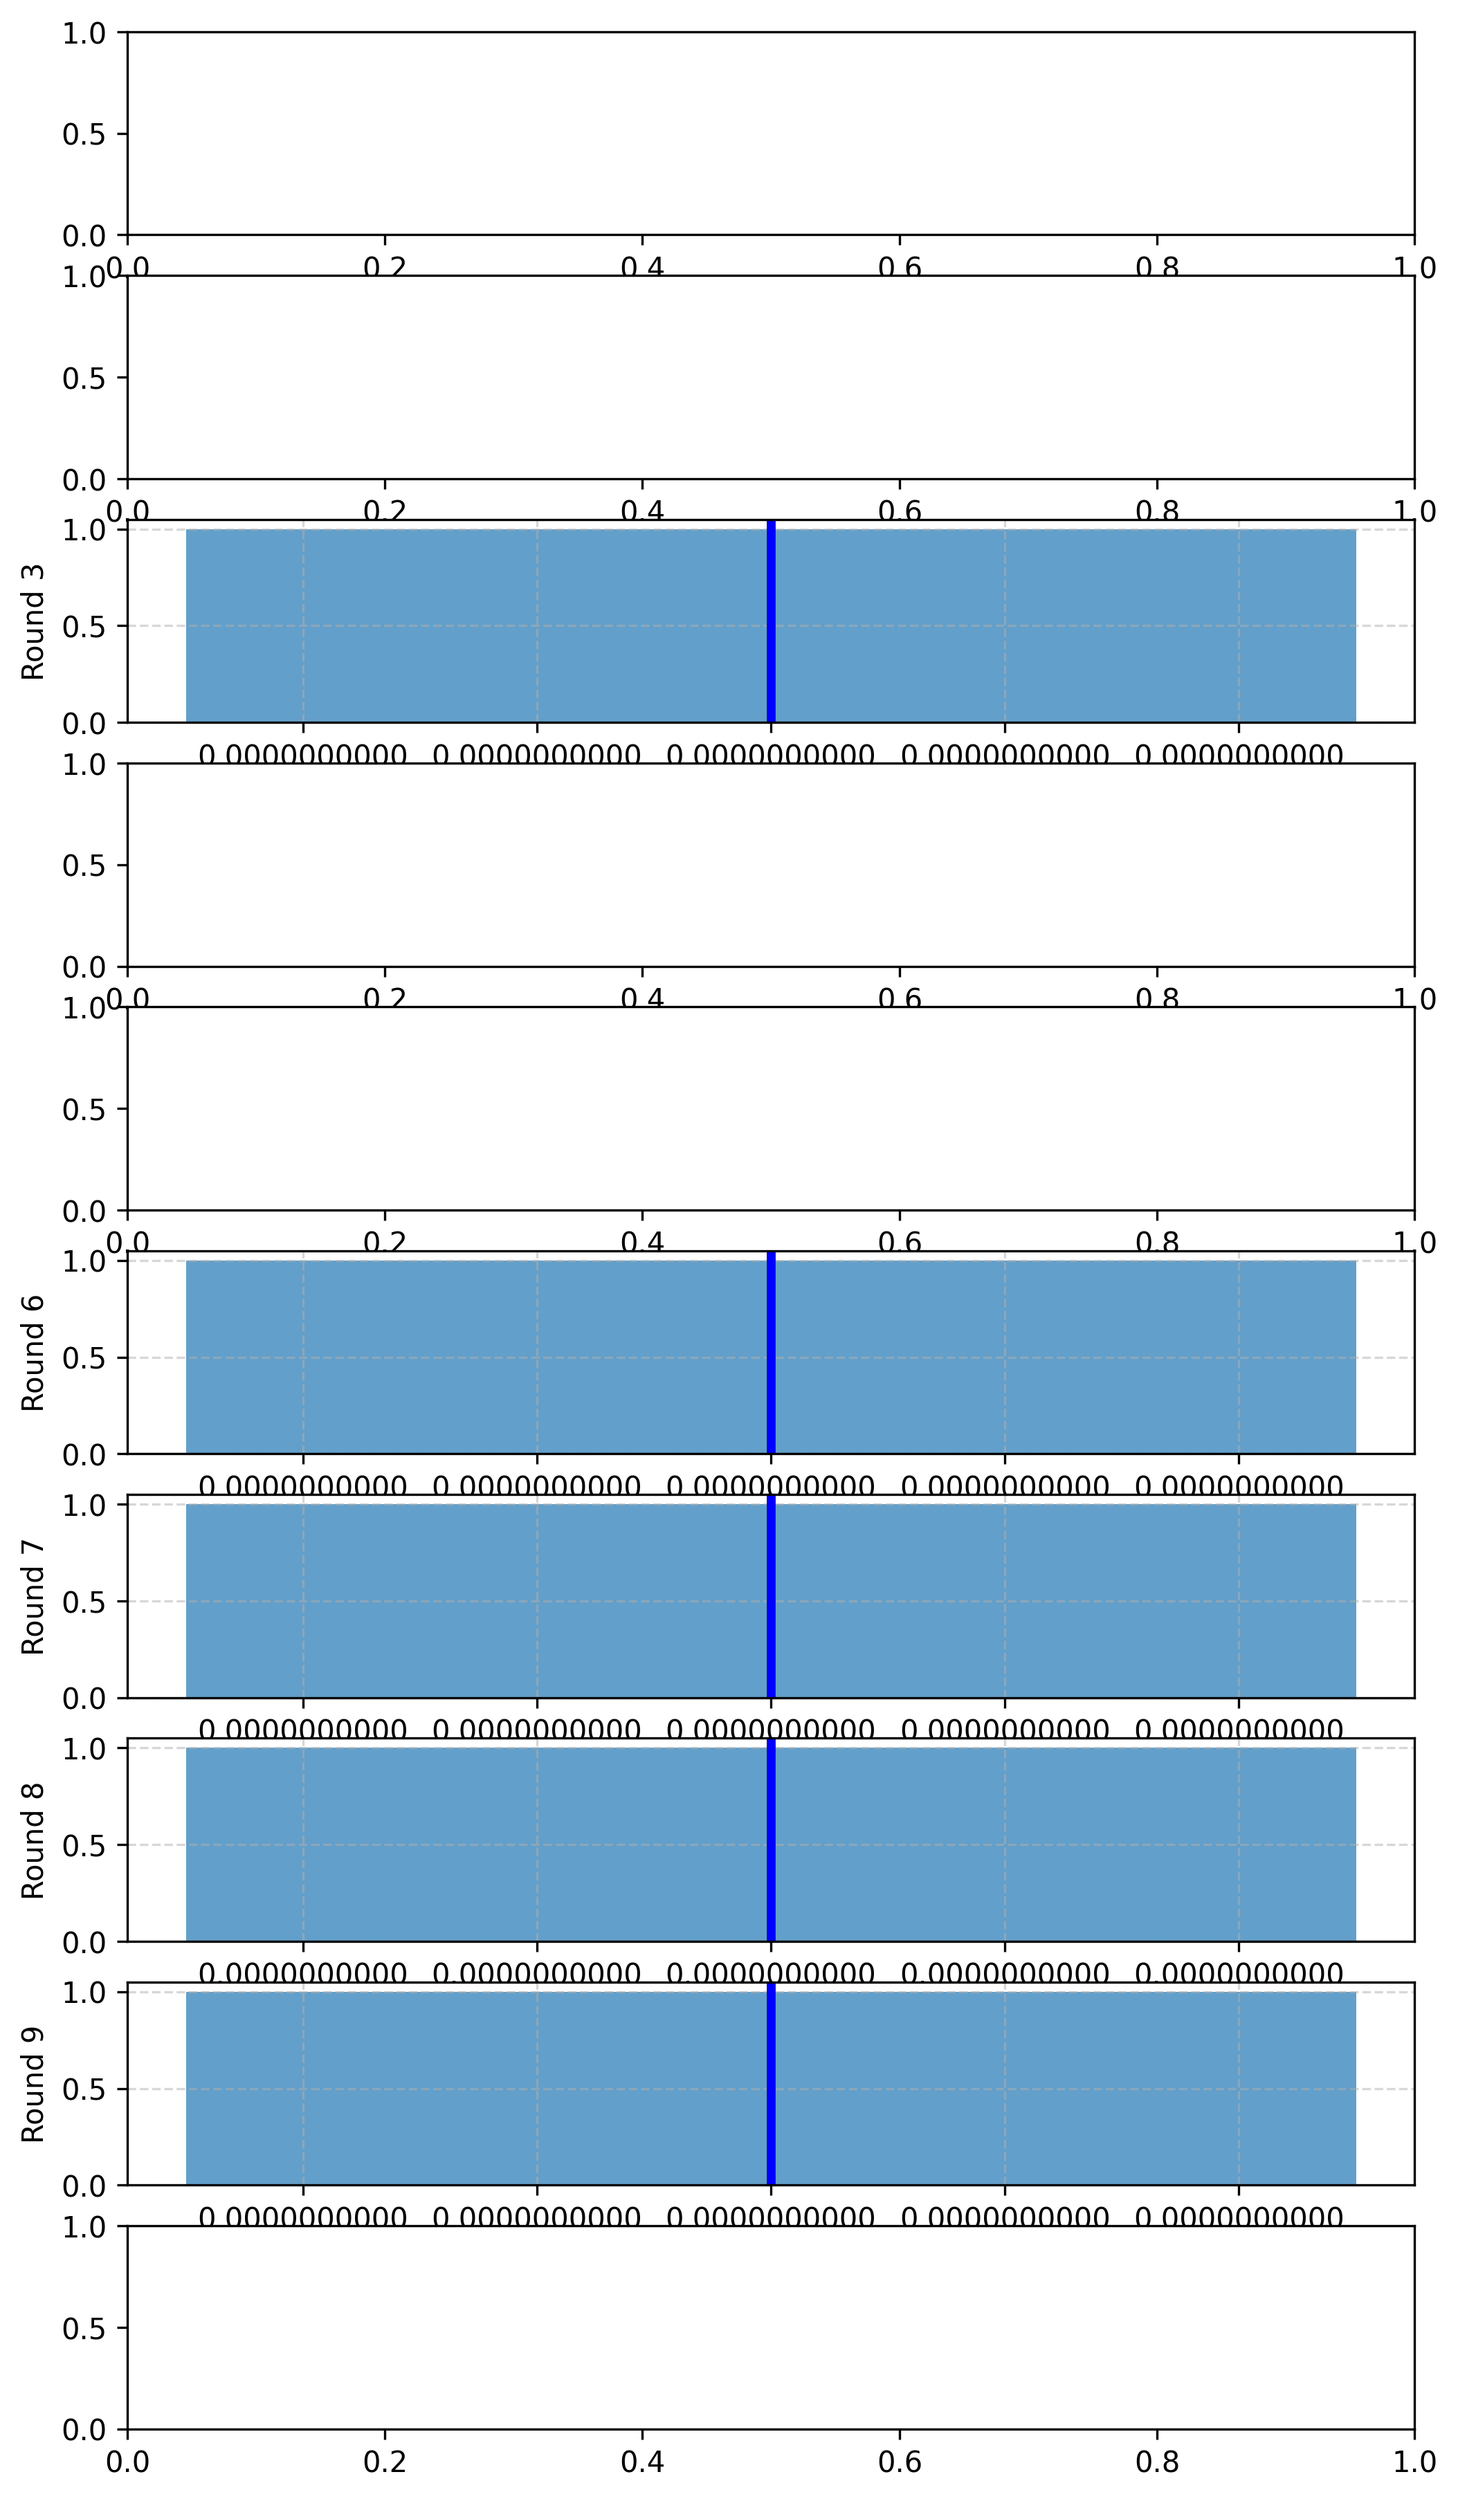
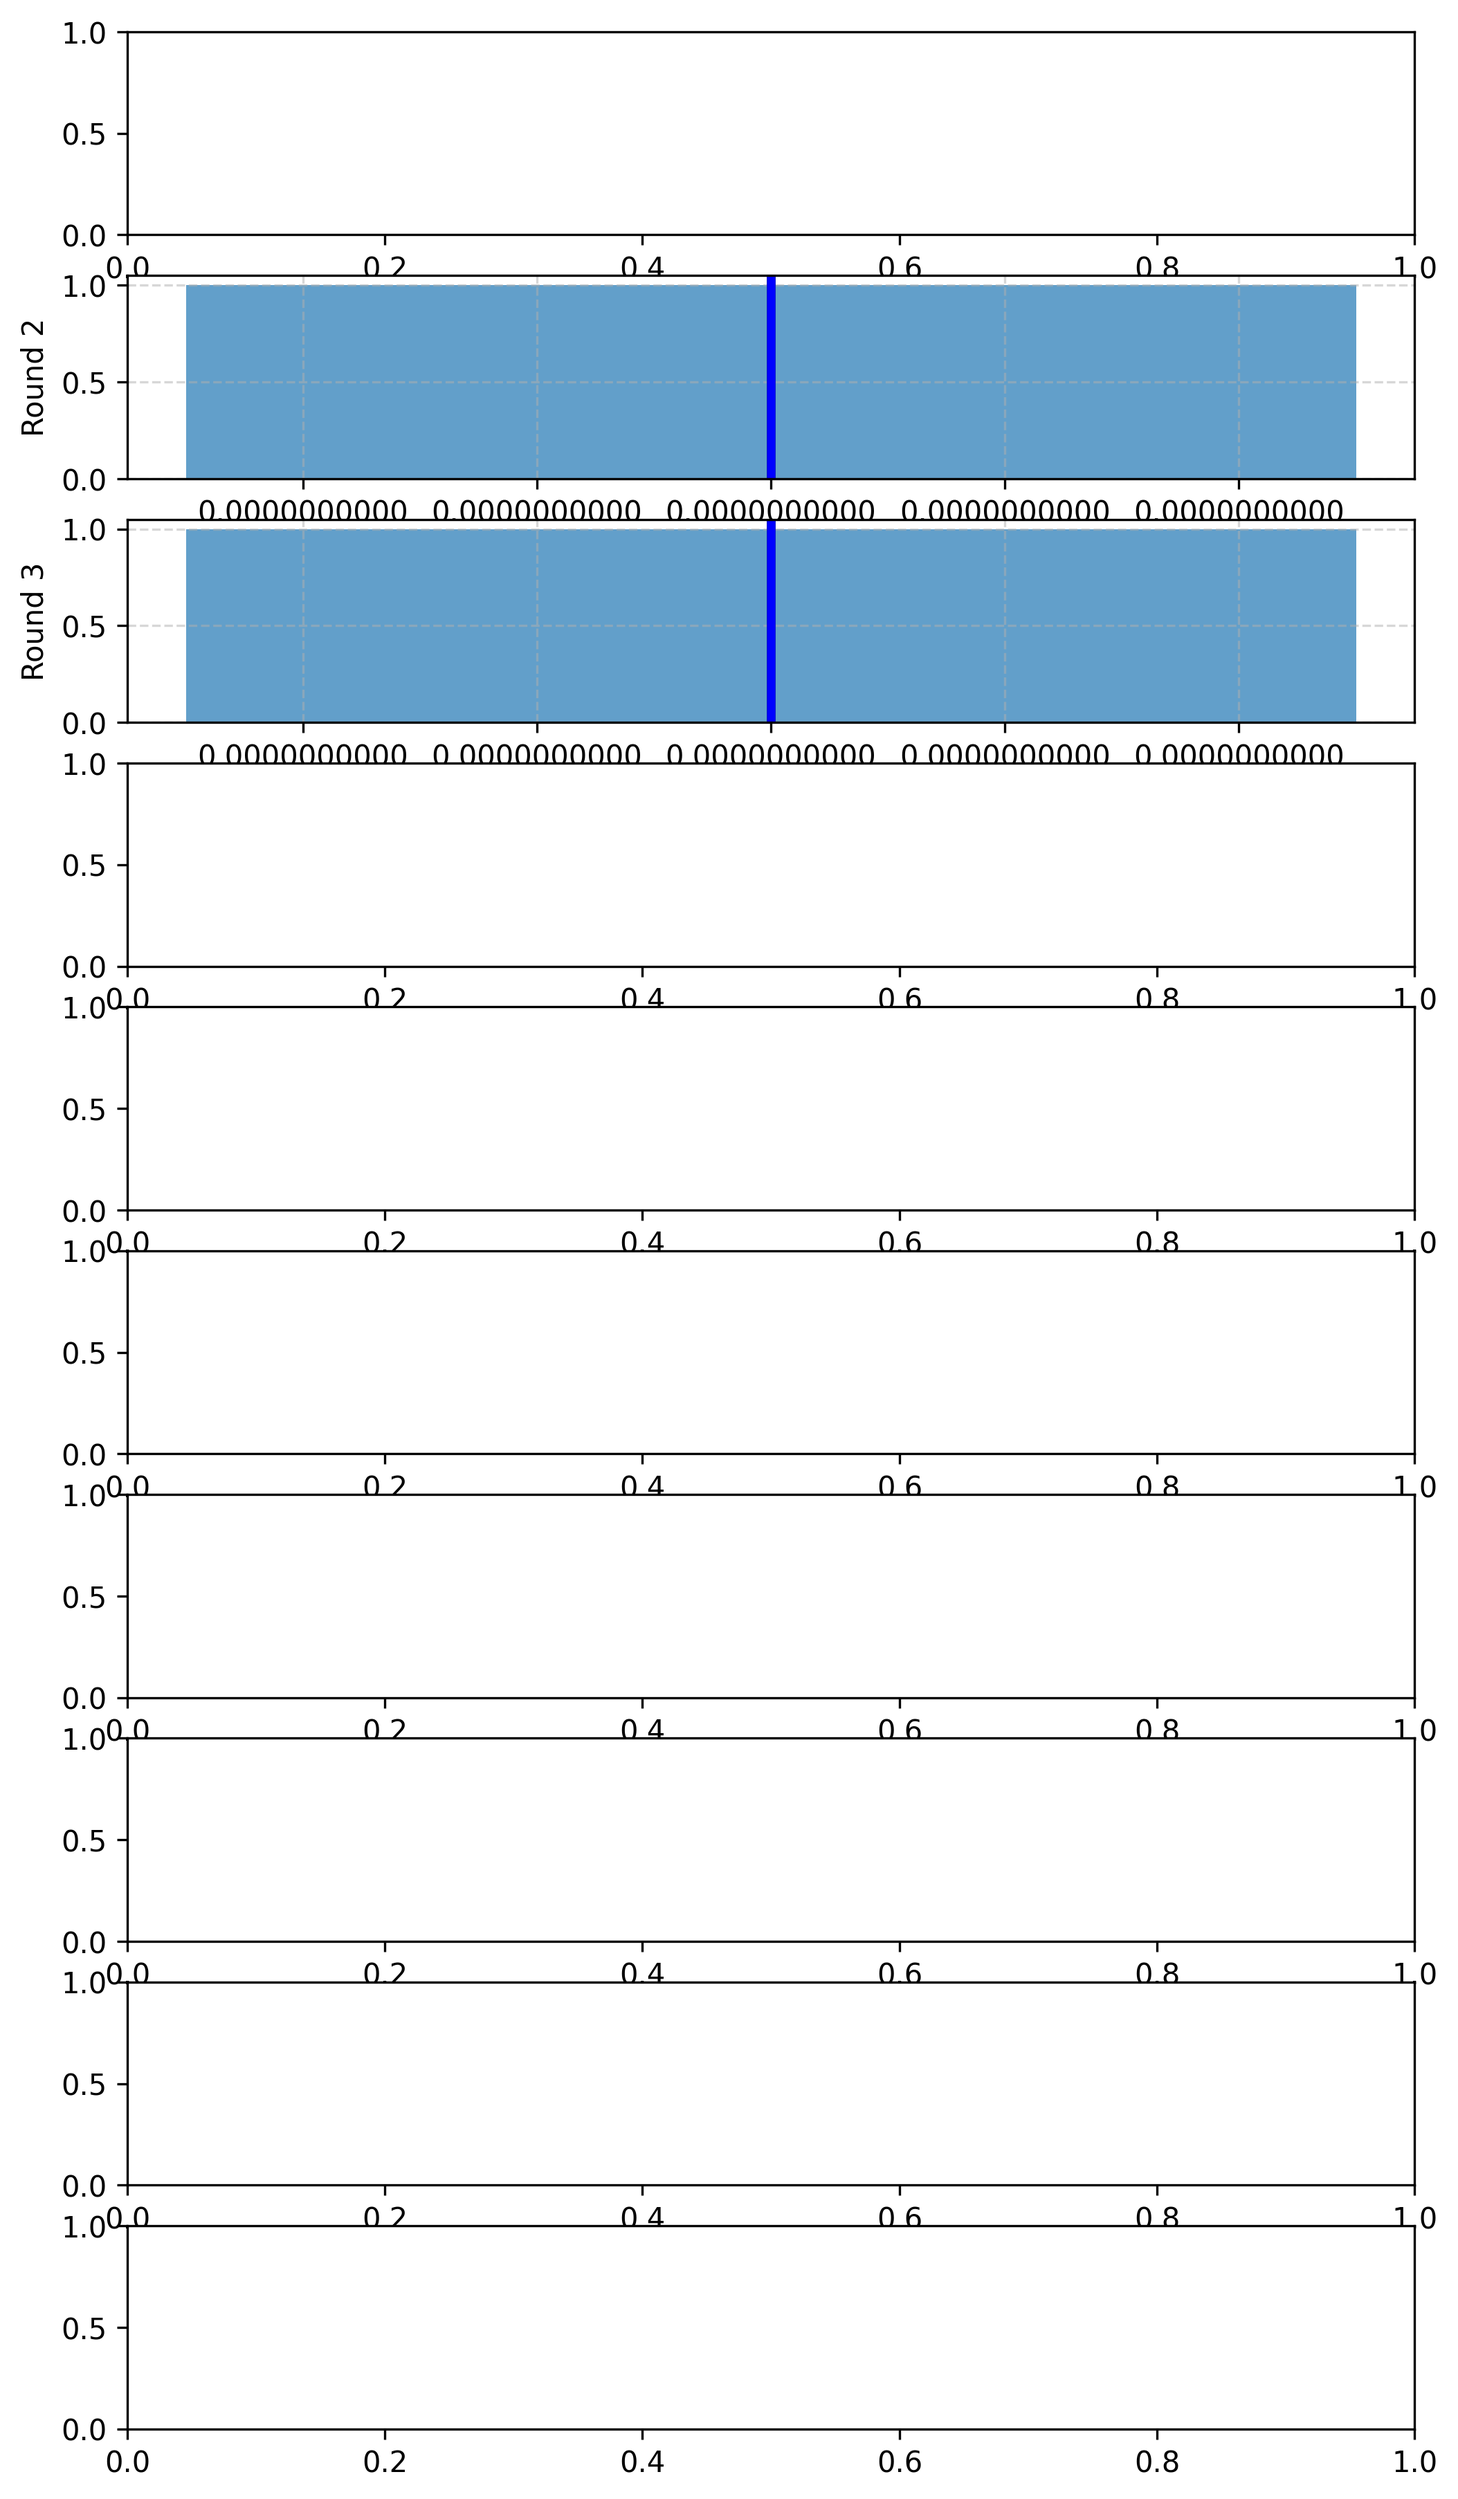
New charts

diff --git a/docs/logs/processTrace.py b/docs/logs/processTrace.py
@@ -4,7 +4,7 @@ import math
 import matplotlib.pyplot as plt
 import os
 
-TEST_NAME = "star-topology"
+TEST_NAME = "tree-topology"
 TEST_TYPE = "tdma"
 TRACE_NAME = "trace-6nodes.pcapng.gz"
 
@@ -187,6 +187,9 @@ def position_process_packet(packet_timestamp_ms, packet_round, reference_node, m
             else:
                 position = 0
 
+            if position < 0:
+                position = 0
+
             if(round_counter in saved_positions.keys()):
 
                 saved_positions[round_counter][me] = position
@@ -299,27 +302,29 @@ def compute_position(path):
                 #Else, just consider the position 0
                 position_data[i].append(0)
 
-    overlap_x = range(0, len(list(saved_positions.keys())))[:-1]
+    cutoff = -100
+
+    overlap_x = range(0, len(list(saved_positions.keys())))[:cutoff]
 
     #position_data should now be a dict with a key for each node and a value corresponding to a list of positions over rounds. Plot it
     plt.figure(figsize=(15,10))
     plt.clf()
-    plt.plot(overlap_x, position_data[DRONE_1_ID][:-1], marker='o', linestyle='dotted', color=node_colors[DRONE_1_ID], label = "Drone 1")
+    plt.plot(overlap_x, position_data[DRONE_1_ID][:cutoff], marker='o', linestyle='dotted', color=node_colors[DRONE_1_ID], label = "Drone 1")
     plt.axhline(y=0, color=node_colors[DRONE_1_ID], linestyle='-', linewidth=2)
 
-    plt.plot(overlap_x, position_data[DRONE_2_ID][:-1], marker='o', linestyle='dotted', color=node_colors[DRONE_2_ID], label = "Drone 2")
+    plt.plot(overlap_x, position_data[DRONE_2_ID][:cutoff], marker='o', linestyle='dotted', color=node_colors[DRONE_2_ID], label = "Drone 2")
     plt.axhline(y=50, color=node_colors[DRONE_2_ID], linestyle='-', linewidth=2)
 
-    plt.plot(overlap_x, position_data[DRONE_3_ID][:-1], marker='o', linestyle='dotted', color=node_colors[DRONE_3_ID], label = "Drone 3")
+    plt.plot(overlap_x, position_data[DRONE_3_ID][:cutoff], marker='o', linestyle='dotted', color=node_colors[DRONE_3_ID], label = "Drone 3")
     plt.axhline(y=100, color=node_colors[DRONE_3_ID], linestyle='-', linewidth=2)
 
-    plt.plot(overlap_x, position_data[DRONE_4_ID][:-1], marker='o', linestyle='dotted', color=node_colors[DRONE_4_ID], label = "Drone 4")
+    plt.plot(overlap_x, position_data[DRONE_4_ID][:cutoff], marker='o', linestyle='dotted', color=node_colors[DRONE_4_ID], label = "Drone 4")
     plt.axhline(y=150, color=node_colors[DRONE_4_ID], linestyle='-', linewidth=2)
 
-    plt.plot(overlap_x, position_data[DRONE_5_ID][:-1], marker='o', linestyle='dotted', color=node_colors[DRONE_5_ID], label = "Drone 5")
+    plt.plot(overlap_x, position_data[DRONE_5_ID][:cutoff], marker='o', linestyle='dotted', color=node_colors[DRONE_5_ID], label = "Drone 5")
     plt.axhline(y=200, color=node_colors[DRONE_5_ID], linestyle='-', linewidth=2)
 
-    plt.plot(overlap_x, position_data[DRONE_6_ID][:-1], marker='o', linestyle='dotted', color=node_colors[DRONE_6_ID], label = "Drone 6")
+    plt.plot(overlap_x, position_data[DRONE_6_ID][:cutoff], marker='o', linestyle='dotted', color=node_colors[DRONE_6_ID], label = "Drone 6")
     plt.axhline(y=250, color=node_colors[DRONE_6_ID], linestyle='-', linewidth=2)
 
     plt.legend()
@@ -421,7 +426,6 @@ def read_iperf_logs(iperf_log_path):
 
     for file in file_list:
          
-        #Ignore throughput from drone1
         if 'throughput' in file and 'drone' in file:
             f = open(iperf_log_path + '/' + file, "r")
             values = list()
@@ -474,8 +478,8 @@ def compare_throughput(tdma_path, csma_path):
 
     plt.figure(figsize=(15,10))
     plt.clf()
-    plt.plot(tdma_x[5:-5], tdma_y[5:-5], marker='o', linestyle='-', color="red", label = "TDMA Throughput")
-    plt.plot(csma_x[5:-5], csma_y[5:-5], marker='o', linestyle='-', color="blue", label = "CSMA Throughput")
+    plt.plot(tdma_x[10:-10], tdma_y[10:-10], marker='o', linestyle='-', color="red", label = "TDMA Throughput")
+    plt.plot(csma_x[10:-10], csma_y[10:-10], marker='o', linestyle='-', color="blue", label = "CSMA Throughput")
 
     plt.legend()
     plt.grid()

diff --git a/docs/logs/generateReport.py b/docs/logs/generateReport.py
@@ -368,7 +368,7 @@ def build_charts():
     #build_average_offset_chart(data)
     build_total_offset_chart(data)
     #build_overlap_chart(data)
-    #build_delay_histograms(data)
+    build_delay_histograms(data)
 
         
 
